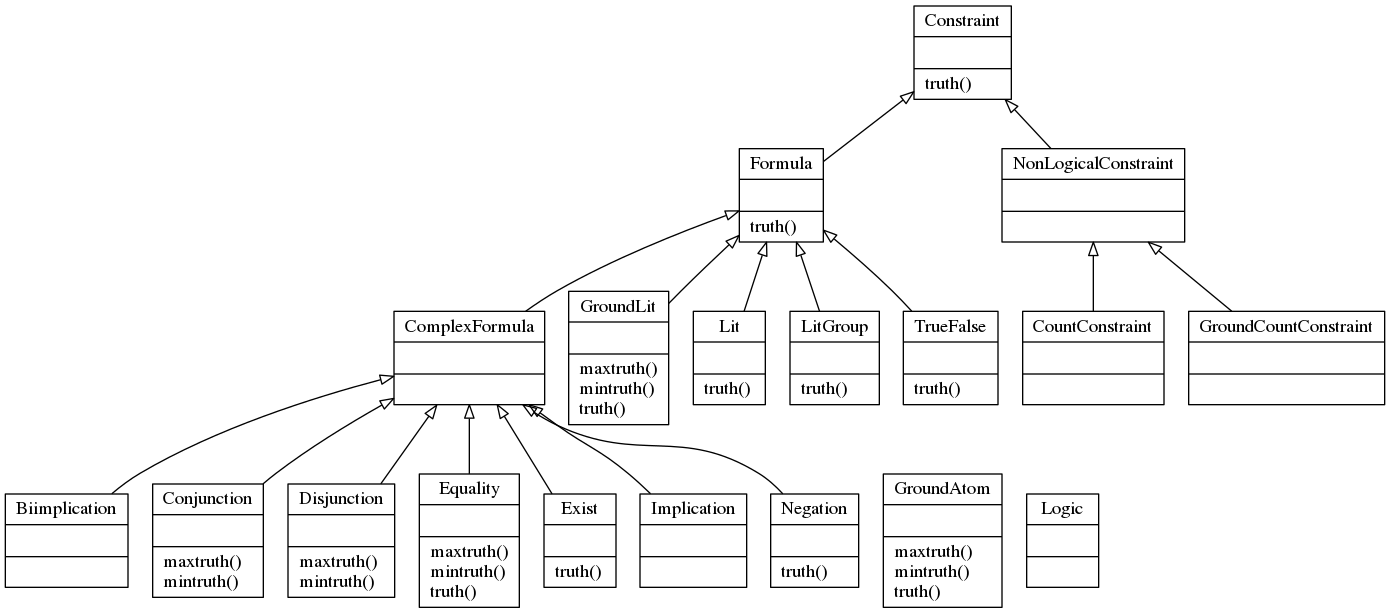
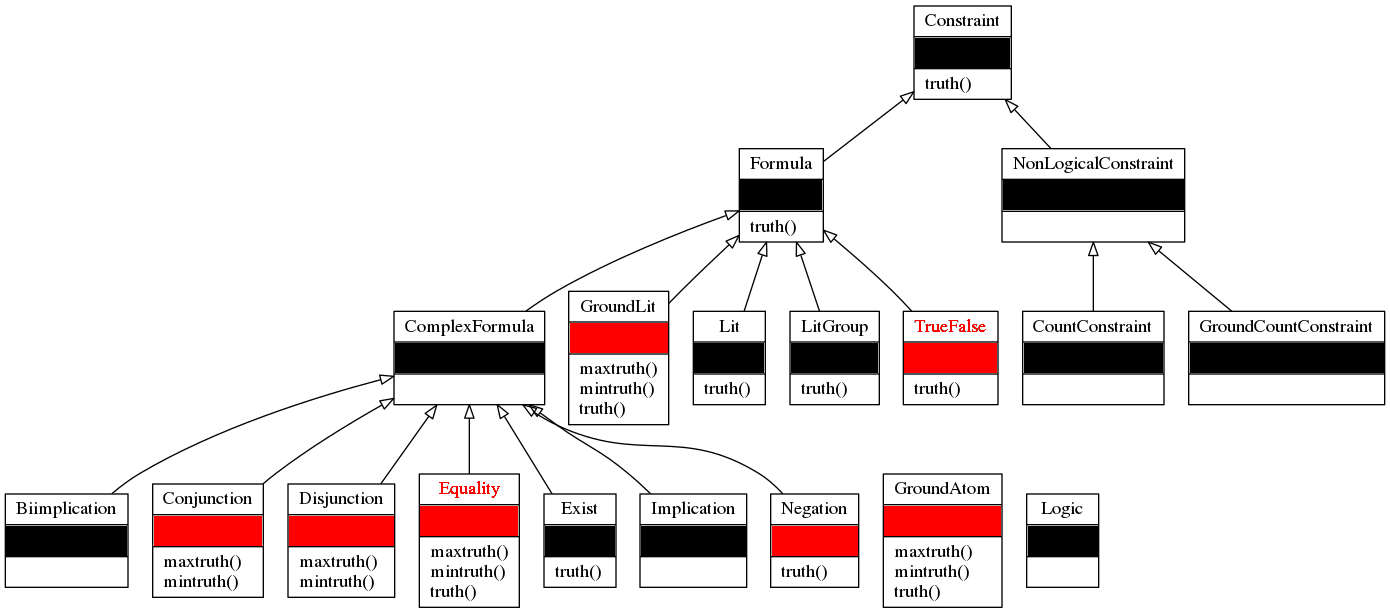
fix typos

diff --git a/posts/speeding-up-pracmln/index.html b/posts/speeding-up-pracmln/index.html
@@ -50,7 +50,7 @@
                     </h1>
                     <h2 class="headline">
                     Aug 6, 2018 17:43
-                    · 1066 words
+                    · 1071 words
                     · 6 minute read
                       <span class="tags">
                       
@@ -109,7 +109,7 @@ ImportError: cannot import name BinaryVariable
 
 <h1 id="branching">Branching</h1>
 
-<p>More drastic measures were required. At this point, I decided to undo al my commits from the week <strong>(thank Linus Torvalds for Git version control)</strong>. I created three separate branches, and splite my work across them. Special care had to be taken, when checking out between various branches, to recompile the code, and delete/recreate symlinks to the appropriate files.</p>
+<p>More drastic measures were required. At this point, I decided to undo all my commits from the week <strong>(thank Linus Torvalds for Git version control)</strong>. I created three separate branches, and split my work across them. Special care had to be taken, when checking out between various branches, to recompile the code, and delete/recreate symlinks to the appropriate files.</p>
 
 <p>I have now merged these branches into my main <code>gsoc18-cython</code> branch, and the resultant changes, together yield a further ~15% speedup.</p>
 
@@ -121,7 +121,7 @@ ImportError: cannot import name BinaryVariable
 
 <h1 id="truth">truth</h1>
 
-<p>The various <code>truth</code> functions in logic module all accept a <code>world</code> parameter, representing (initially) the <code>evidence</code> presented to the Markov Logic Network. They then evaluate the truth or falsity of the particular <code>Formula</code>. While I successfully converted all of these to cython, there remain singificant unresolved issues.</p>
+<p>The various <code>truth</code> functions in logic module all accept a <code>world</code> parameter, representing (initially) the <code>evidence</code> presented to the Markov Logic Network. They then evaluate the truth or falsity of the particular <code>Formula</code>. While I successfully converted all of these to cython, there remain significant unresolved issues.</p>
 
 <p>The first thing to note is that there are many of them. In the case of <code>Enumeration-Ask</code>, with the smokers and taxonomy tests I was running, particular ones may be more usd than other, but this doesn&rsquo;t generalise further - varying from problem to problem. Here are the all truth functions from <code>common.pyx</code>.</p>
 
@@ -153,11 +153,11 @@ ImportError: cannot import name BinaryVariable
 
 <p>Not much optimisation possible here*!</p>
 
-<p>The funtions marked red in the figure above are the ones that are actually possible to optimise. Bold text is used to indicate significant changes.</p>
+<p>The funtions marked red in the figure above are the ones that are actually possible to optimise. Red text is used to indicate significant changes (in <em>TrueFalse</em> and <em>Equality</em>, respectively).</p>
 
 <p>Finally, the functions are all typed as <code>cpdef</code>. Unitl the cythonisation of PracMLN is complete, this needs to remain, since the functions are often called by python code. Performace can however be greatly improved if the functions can all by redifined with <code>cdef</code>.</p>
 
-<p>*: This is technically untrue. If the functions could be typed as <code>cdef</code>, then they coud make use of C <code>inline</code> functionality, essentially making them as fast as macros. This would provide a tremendous speed gain, but would be possible only once all calling code is Cythonised.</p>
+<p>*: This is technically untrue. If the functions could be typed as <code>cdef</code>, then they could make use of C <code>inline</code> functionality, essentially making them as fast as macros. This would provide a tremendous speed gain, but would be possible only once all calling code is Cythonised.</p>
 
 <h1 id="fol-pyx-and-fuzzy-pyx">fol.pyx and fuzzy.pyx</h1>
 
